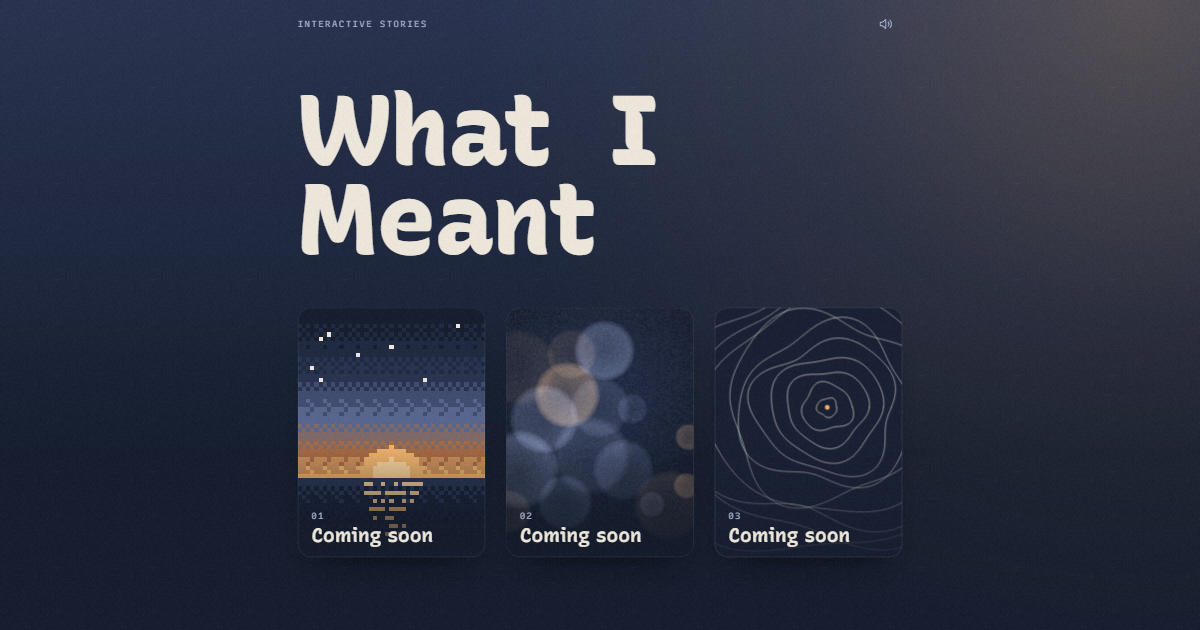
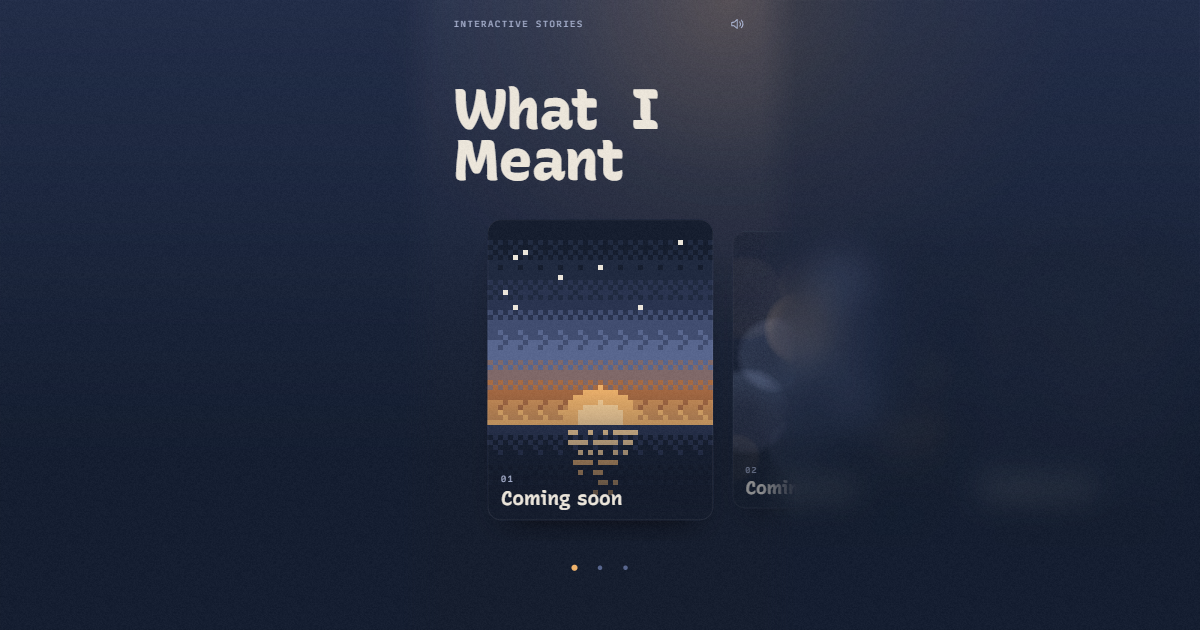
Show the menu as a phone column on every screen
On a computer the page is a phone-wide column in the middle, and the
screen on both sides is frosted glass over the backdrop and the cards
beside the column. The mouse wheel and the arrow keys move one card.

diff --git a/site/css/menu.css b/site/css/menu.css
@@ -1,6 +1,8 @@
 /* menu.css: styles for the story menu (site/index.html).
+   The page is laid out for a phone at every screen size: on a computer it is a phone-wide
+   column in the middle, and the screen on both sides is frosted glass (.glass).
    Order: tokens, page and backdrop, header, title, cards, dots, start screen, page states,
-   wide screens, reduced motion. The page states are classes on <body>, set by js/main.js. */
+   the side glass, reduced motion. The page states are classes on <body>, set by js/main.js. */
 
 :root {
   /* Colours: a blue-hour night with one warm lamp. */
@@ -22,9 +24,11 @@
   --ease-out: cubic-bezier(0.23, 1, 0.32, 1);
 
   --gutter: 20px;
-  --card-w: min(70vw, 320px);
+  --app-w: min(100vw, 430px); /* the phone-wide column everything is laid out in */
+  --card-w: calc(var(--app-w) * 0.7);
   --card-gap: 14px;
   --radius: 18px;
+  --lamp-size: 110vmax;
 
   color-scheme: dark;
 }
@@ -69,10 +73,11 @@ body::before {
 .lamp {
   position: fixed;
   z-index: -1;
-  top: -55vmax;
-  right: -50vmax;
-  width: 110vmax;
-  height: 110vmax;
+  /* Centred just inside the top right corner of the column. */
+  top: calc(var(--lamp-size) * -0.5);
+  right: calc((100% - var(--app-w)) / 2 - var(--lamp-size) * 0.45);
+  width: var(--lamp-size);
+  height: var(--lamp-size);
   pointer-events: none;
   background: radial-gradient(closest-side, rgb(243 180 106 / 0.34), rgb(243 180 106 / 0.1) 50%, transparent);
   opacity: 0.5;
@@ -92,6 +97,8 @@ body::after {
 
 /* Header: what this is, and the sound switch. */
 .bar {
+  width: var(--app-w);
+  margin-inline: auto;
   display: flex;
   align-items: center;
   justify-content: space-between;
@@ -161,6 +168,8 @@ body::after {
 }
 
 .title-wrap {
+  width: var(--app-w);
+  margin-inline: auto;
   padding: 0 var(--gutter);
 }
 
@@ -169,7 +178,7 @@ body::after {
 .title {
   width: fit-content;
   margin: 0;
-  font-size: clamp(56px, 17.5vw, 132px);
+  font-size: clamp(52px, calc(var(--app-w) * 0.175), 76px);
   font-weight: 400;
   line-height: 0.9;
   letter-spacing: -0.015em;
@@ -196,7 +205,8 @@ body::after {
   transition: font-variation-settings 900ms var(--ease-out) calc(250ms + var(--i) * 45ms);
 }
 
-/* Story cards. The row scrolls sideways on phones and snaps a card to the middle. */
+/* Story cards. The row scrolls sideways and snaps a card to the middle. It spans the whole
+   screen, so on a computer the cards beside the column show, blurred, under the glass. */
 .shelf {
   display: flex;
   gap: var(--card-gap);
@@ -457,39 +467,40 @@ body:not(.is-gate) .gate {
   }
 }
 
-/* Wide screens: all cards fit in one row, so the row stops scrolling and lines up with
-   the title in one centred column. */
-@media (min-width: 860px) {
+/* The side glass, on screens wider than a phone. It covers the whole screen, blurs what
+   is behind it and is cut away over the column by a mask; the mask fades in over 48px
+   past each edge, so the column runs into the blur smoothly. Taps pass through it, so
+   the blurred cards can still be clicked. */
+.glass {
+  --edge: calc((100% - var(--app-w)) / 2);
+  --fade: 48px;
+  --cutout: linear-gradient(
+    to right,
+    #000 calc(var(--edge) - var(--fade)),
+    transparent var(--edge),
+    transparent calc(100% - var(--edge)),
+    #000 calc(100% - var(--edge) + var(--fade))
+  );
+  position: fixed;
+  inset: 0;
+  z-index: 4;
+  display: none;
+  pointer-events: none;
+  background: rgb(18 26 44 / 0.3);
+  -webkit-backdrop-filter: blur(22px) saturate(115%);
+  backdrop-filter: blur(22px) saturate(115%);
+  -webkit-mask-image: var(--cutout);
+  mask-image: var(--cutout);
+}
+
+@media (min-width: 500px) {
   :root {
-    --gutter: 56px;
-    --card-w: 250px;
-    --card-gap: 28px;
-    --row: calc(var(--card-w) * 3 + var(--card-gap) * 2);
+    /* Sized by the screen height here, so the glow stays near the column. */
+    --lamp-size: 110vh;
   }
 
-  .bar {
-    width: min(100%, calc(var(--row) + var(--gutter) * 2));
-    margin-inline: auto;
-    padding-inline: var(--gutter);
-  }
-
-  .menu {
-    gap: 48px;
-  }
-
-  .title-wrap,
-  .shelf {
-    width: var(--row);
-    margin-inline: auto;
-    padding-inline: 0;
-  }
-
-  .shelf {
-    overflow: visible;
-  }
-
-  .dots {
-    display: none;
+  .glass {
+    display: block;
   }
 }
 

diff --git a/site/js/shelf.js b/site/js/shelf.js
@@ -1,8 +1,8 @@
 // shelf.js: builds the row of story cards and the dots under it.
 //
-// On phones the row scrolls sideways and snaps one card to the middle; the cards beside it
-// are drawn a little smaller and dimmer so the middle one reads as the one you are on.
-// On wide screens all cards fit, so nothing scrolls and every card is shown in full.
+// The row scrolls sideways and snaps one card to the middle; the cards beside it are drawn
+// a little smaller and dimmer so the middle one reads as the one you are on. Touch swipes
+// scroll it natively; on a computer the mouse wheel and the arrow keys move one card at a time.
 
 import { drawCover } from './covers.js';
 
@@ -26,7 +26,7 @@ export function renderShelf(list, dots, stories, { onLockedTap }) {
     if (cover.tagName === 'CANVAS') drawCover(cover, story.cover, i + 1);
 
     card.addEventListener('click', (event) => {
-      // On phones a card at the side is brought to the middle first; the tap does nothing else.
+      // A card at the side is brought to the middle first; the tap does nothing else.
       if (i !== current && isScrollable()) {
         event.preventDefault();
         scrollToCard(i);
@@ -95,6 +95,27 @@ export function renderShelf(list, dots, stories, { onLockedTap }) {
   list.addEventListener('scroll', scheduleFocus, { passive: true });
   window.addEventListener('resize', scheduleFocus);
   updateFocus();
+
+  // A wheel turned up or down moves one card; a short pause stops one wheel turn from
+  // skipping several cards. Sideways trackpad swipes are left to scroll natively.
+  let wheelPause = 0;
+  list.addEventListener('wheel', (event) => {
+    if (!isScrollable() || Math.abs(event.deltaY) <= Math.abs(event.deltaX)) return;
+    event.preventDefault();
+    if (wheelPause || Math.abs(event.deltaY) < 4) return;
+    step(Math.sign(event.deltaY));
+    wheelPause = setTimeout(() => { wheelPause = 0; }, 450);
+  }, { passive: false });
+
+  document.addEventListener('keydown', (event) => {
+    if (list.inert) return; // the menu is not open yet
+    if (event.key === 'ArrowRight') step(1);
+    else if (event.key === 'ArrowLeft') step(-1);
+  });
+
+  function step(direction) {
+    scrollToCard(Math.min(cards.length - 1, Math.max(0, current + direction)));
+  }
 
   // A short sideways shake: the card heard the tap, the story just is not out yet.
   // Played with the Web Animations API, so a second tap restarts it cleanly.

diff --git a/site/index.html b/site/index.html
@@ -26,6 +26,8 @@
   </head>
   <body class="is-gate">
     <div class="lamp" aria-hidden="true"></div>
+    <!-- Frosted glass beside the phone-wide column on bigger screens (see css/menu.css). -->
+    <div class="glass" aria-hidden="true"></div>
 
     <!-- Header, cards and dots stay inert until the start tap; js/main.js lifts it. -->
     <header class="bar" inert>

diff --git a/site/README.md b/site/README.md
@@ -16,7 +16,7 @@ browsers do not load ES modules from `file://` pages.
 
 | Path | What it is |
 |---|---|
-| `index.html` | The menu: start screen, title, story cards, sound switch |
+| `index.html` | The menu: start screen, title, story cards, sound switch. Laid out for a phone at every size; on a computer it is a phone-wide column with frosted glass on both sides |
 | `css/menu.css` | Menu styles: colours, fonts, layout, page states |
 | `js/main.js` | Entry point; wires everything below together |
 | `js/stories.js` | The list of stories the menu is built from. Edit this to add a story |
